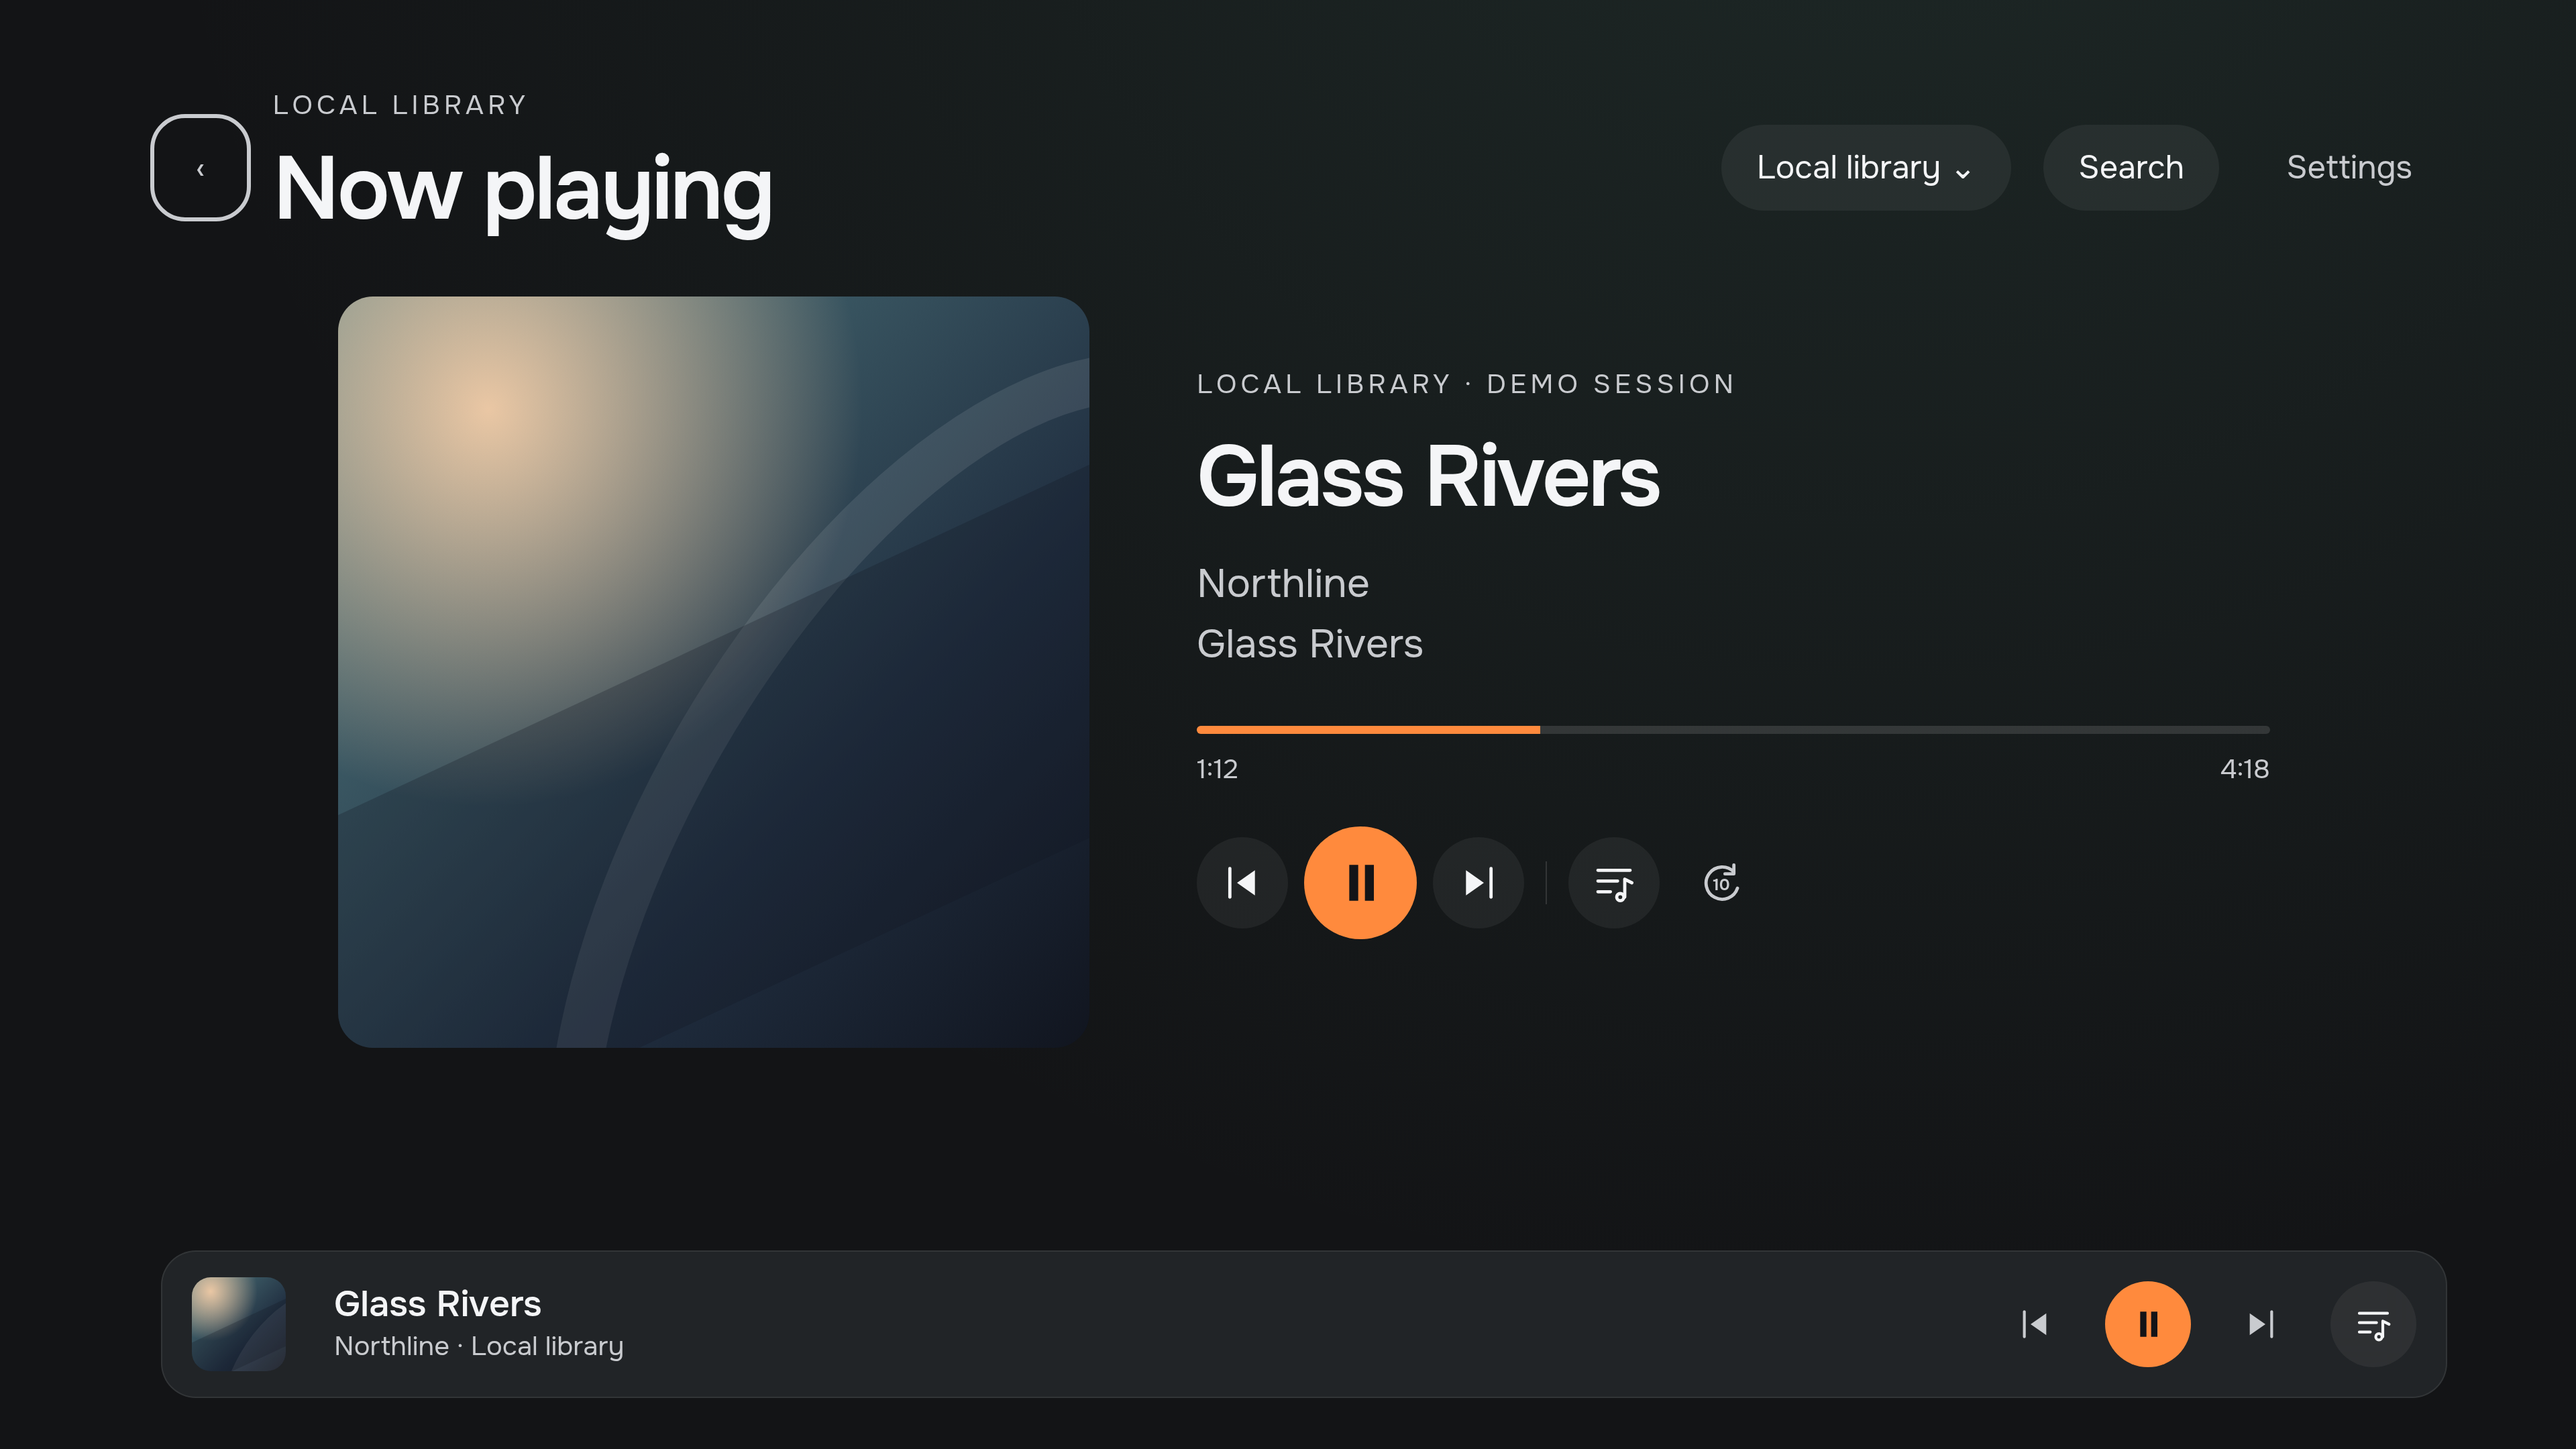
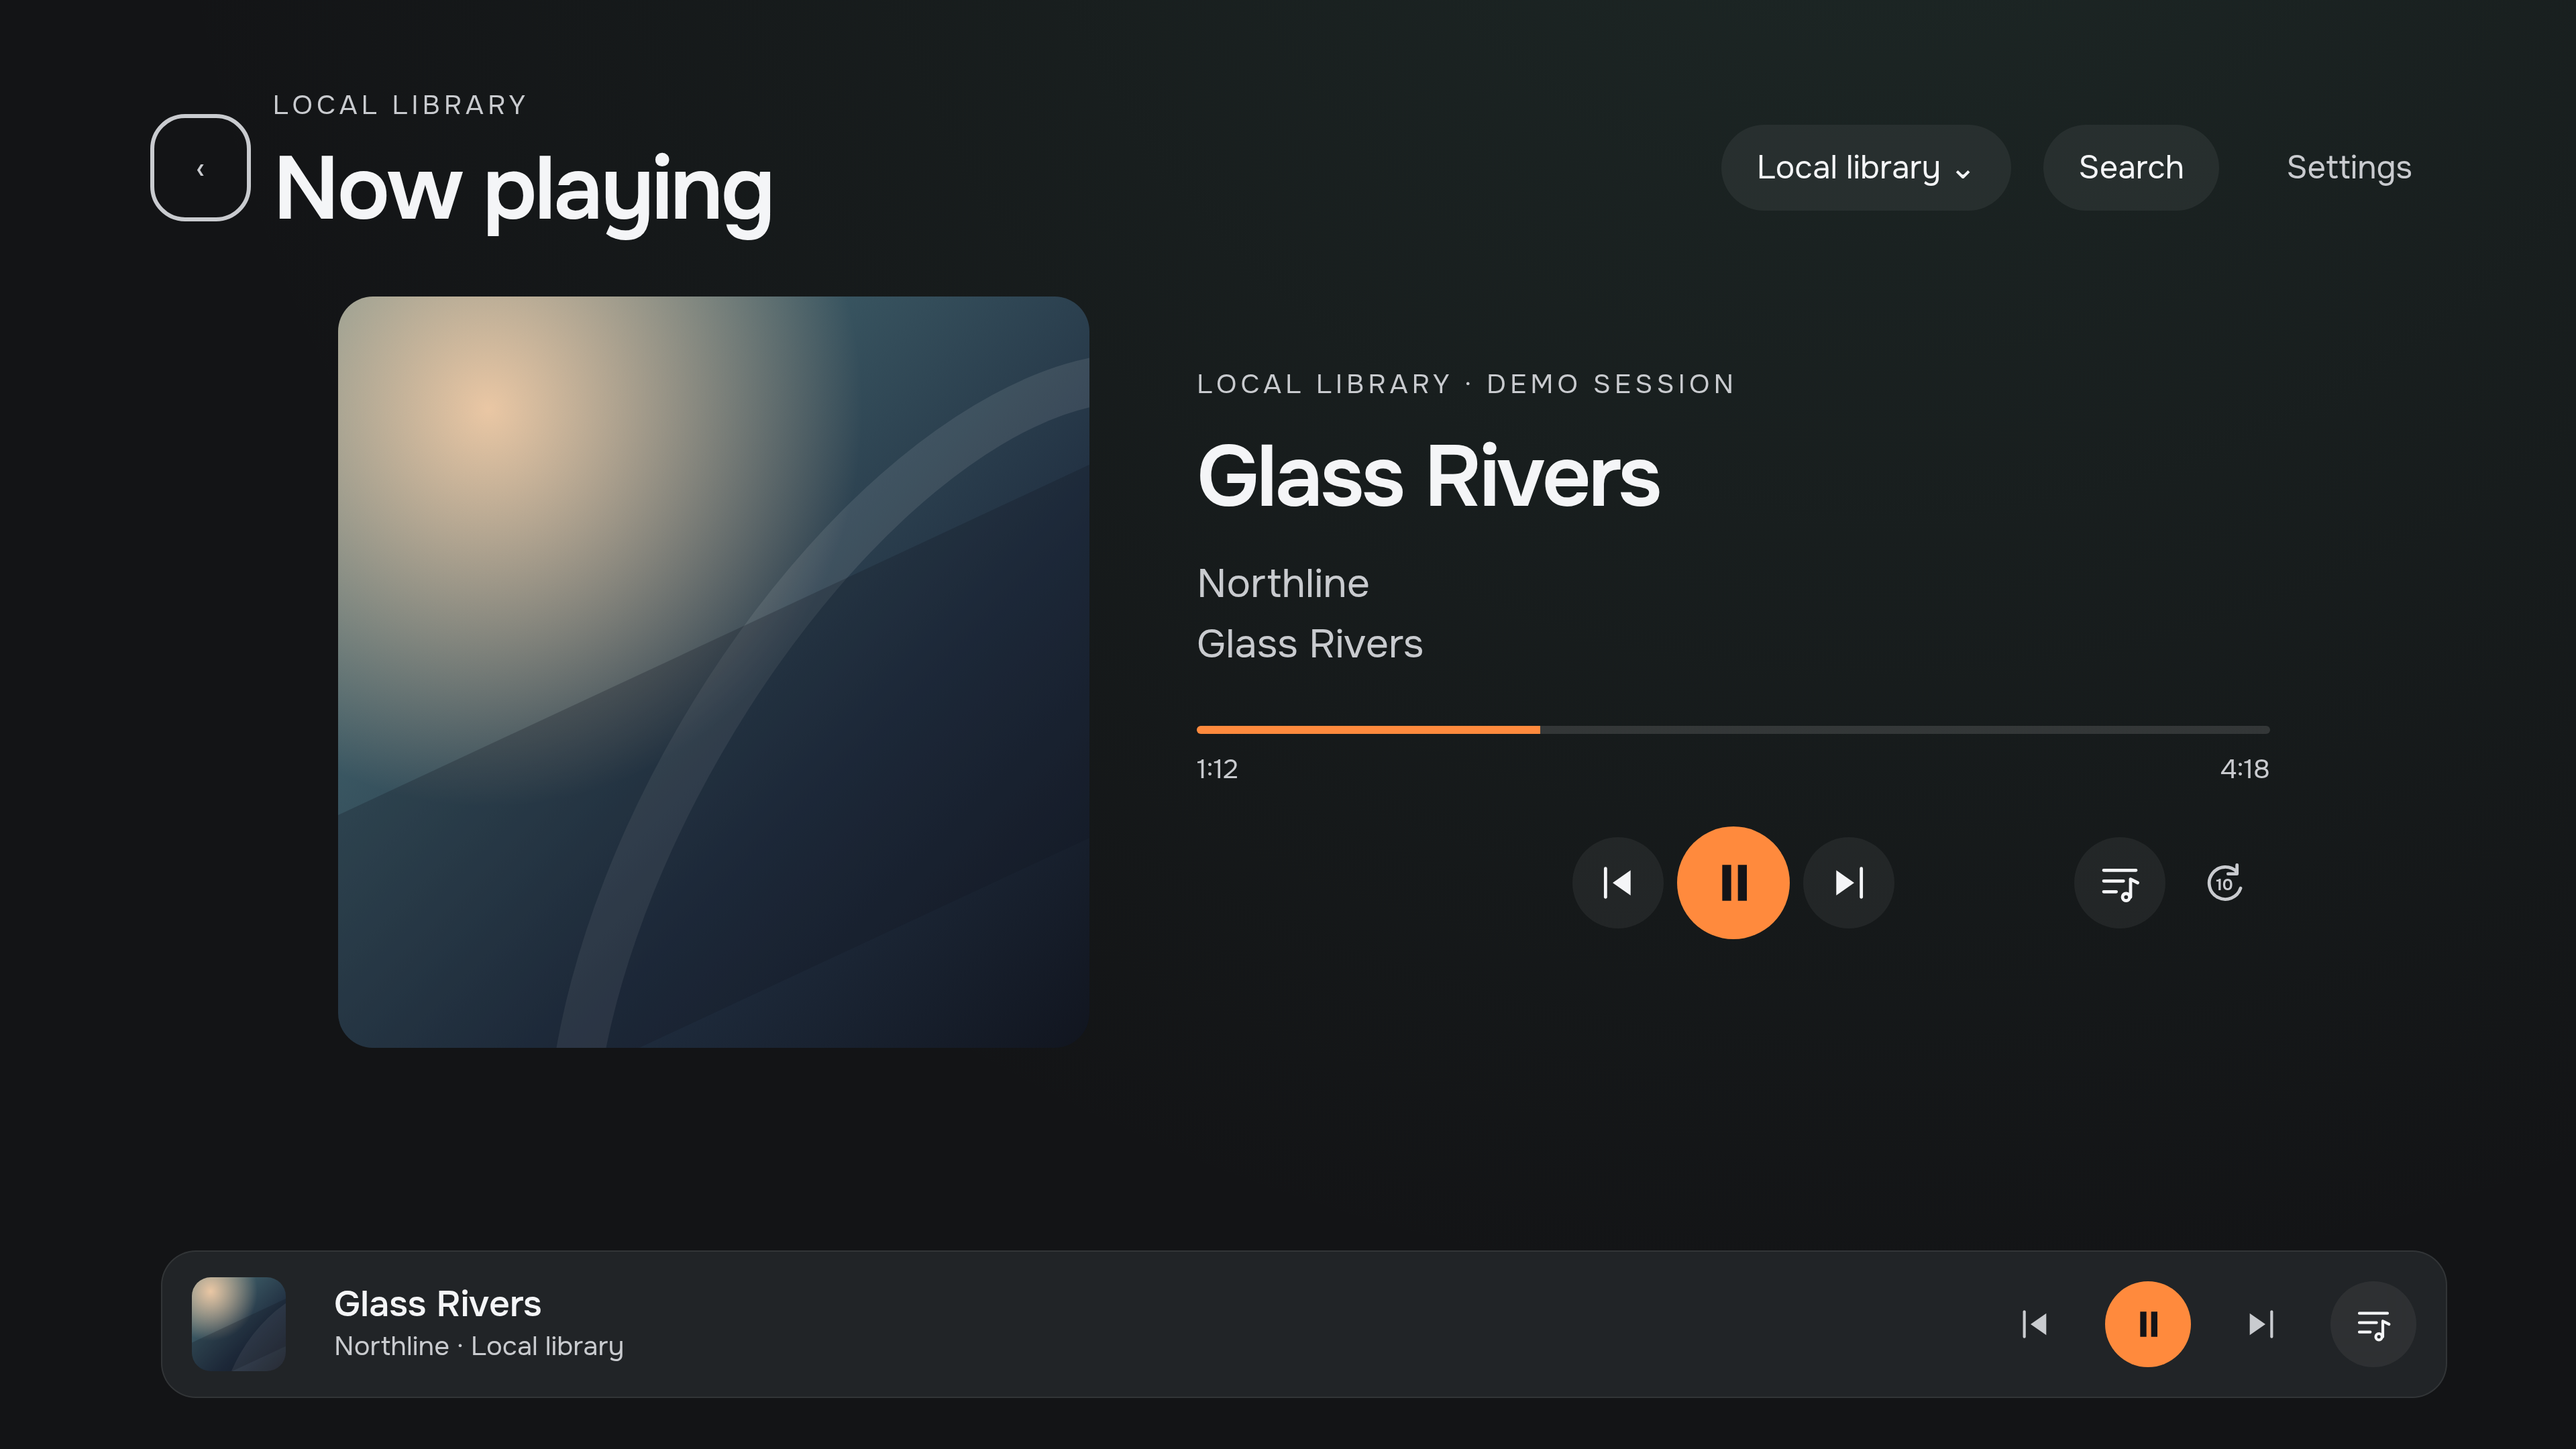
design: select balanced music player layout B
Refs #677 and #698. Record explicit owner choice and use centered transport with feedback left and secondary actions right by default. Keep A/C as comparison references and refresh default-player captures. All 44 offline browser scenes pass.

Changed region(s): [[0.4688, 0.5583, 0.5938, 0.6514], [0.625, 0.5583, 0.7188, 0.6514], [0.8125, 0.5894, 0.875, 0.6204]]

diff --git a/docs/design/prototypes/music/music.js b/docs/design/prototypes/music/music.js
@@ -120,7 +120,7 @@
     pending:['Connecting…','Complete connection in the approved service flow. This preview never opens an account.'],
     cancelled:['Connection cancelled','Nothing was connected. You can try again when you are ready.']
   };
-  let s = {screen:'catalogue',source:'local',tab:'Albums',album:0,query:'',scene:'catalogue'};
+  let s = {screen:'catalogue',source:'local',tab:'Albums',album:0,query:'',scene:'catalogue',variant:'balanced'};
   let session = null;
   let serial = 0;
   const queueFor = album => tracks.slice(0,6).map((_,track) => ({track,album,key:++serial}));
@@ -244,7 +244,7 @@
   function start(track) {if(s.source!=='local'){openModal('settings');return;}radio=null;session={source:s.source,album:s.album,track:Number(track),paused:false};queue=queueFor(s.album);selectEntry(queue[Number(track)]);modal=null;drawModal();drawPlayer();render(document.activeElement.id);}
   function play(track) {if(s.source!=='local'){openModal('settings');return;}if(session && (session.source!==s.source || session.album!==s.album)){openModal('replace',track);}else start(track);}
   function applyScene(scene) {
-    s={screen:'catalogue',source:'local',tab:'Albums',album:0,query:'',scene,designRadio:false};history=[];modal=null;session=null;radio=null;tracks.length=6;queue=queueFor(0);
+    s={screen:'catalogue',source:'local',tab:'Albums',album:0,query:'',scene,designRadio:false,variant:'balanced'};history=[];modal=null;session=null;radio=null;tracks.length=6;queue=queueFor(0);
     if(['player','queue','home'].includes(scene)){session={source:'local',album:0,track:1,paused:false};s.screen=scene;selectEntry(queue[1]);}
     if(scene.startsWith('controls-')) {
       s.source='yandex';s.designRadio=true;s.variant=scene.slice(9);beginStation('wave',true);history=[];s.screen='player';render('pause');return;

diff --git a/docs/design/prototypes/music/verify.py b/docs/design/prototypes/music/verify.py
@@ -111,6 +111,7 @@ def main():
             page.locator("#pin-wave").click()
             page.locator("#station-wave").click()
             assert "My Wave" in page.locator(".radio-label").inner_text()
+            assert page.locator(".now .layout-balanced").count() == 1, "Owner-selected layout B must be the default"
             assert "no service connected" in page.locator(".now .eyebrow").inner_text().lower()
             for control in ["previous", "pause", "next", "queue", "seek", "rating-like", "rating-dislike", "track-radio"]:
                 assert page.locator("#" + control + " svg").count() == 1

diff --git a/docs/design/prototypes/music/control-layouts.md b/docs/design/prototypes/music/control-layouts.md
@@ -3,8 +3,9 @@
 Owner-requested alternatives for [#677](https://github.com/LimeBeck/arinn/issues/677),
 design task [#698](https://github.com/LimeBeck/arinn/issues/698),
 [PR #700](https://github.com/LimeBeck/arinn/pull/700). Proposed on 2026-11-01.
-This is a design evaluation, not a user study, owner selection or a change to
-the production shell. All alternatives retain one horizontal primary-action row.
+This is a design evaluation, not a user study or a change to the production
+shell. The owner selected B on 2026-11-01. All alternatives retain one horizontal
+primary-action row.
 
 ## Comparable variants
 
@@ -18,7 +19,7 @@ navigation, feedback, queue and the overflow sheet remain interactive.
 ![Linear control row](screenshots/controls-inline-strip.png)
 
 Previous, Play/Pause, Next, Queue, Seek, Like, Dislike and Track radio are visible,
-with thin separators. This is the current prototype default.
+with thin separators. This is retained as a comparison scene.
 
 It is direct and familiar, with no hidden actions. However, Pause sits near the
 left edge and the row reads as a chain of eight actions. Feedback is far from
@@ -90,8 +91,8 @@ future reviewed scope prioritizes a minimal album player over immediate feedback
 A remains a valid conservative fallback. Do not expose three permanent layout
 settings merely because alternatives are available for review.
 
-No alternative is selected by this document. The default remains A until the
-owner reviews the screens. A production implementation would also choose a
+The owner selected **B**, which is now the prototype default. A and C remain
+review references rather than user settings. A production implementation would also choose a
 single active transport surface rather than duplicate full-player and compact
 transport; that existing prototype simplification is held constant here so it
 does not bias this comparison.

diff --git a/changes/added/music-design-prototype.md b/changes/added/music-design-prototype.md
@@ -1,1 +1,1 @@
-- Add an offline music design prototype with synthetic catalogue, search, player, queue, source selection and degraded states, plus 1080p/4K review captures. Include provider-owned personal selections, My Wave/track-radio scenes, pins, feedback and continuous queue loading/retry states, informed by CloudMus. Use accessible icon transport controls in a single player row and illustrate the Home Continue music card in playing/paused states. Compare linear, centered-group and minimal/overflow player layouts with 1080p/4K captures and remote-navigation evaluation. Production music integration remains unimplemented and visual acceptance is pending.
+- Add an offline music design prototype with synthetic catalogue, search, player, queue, source selection and degraded states, plus 1080p/4K review captures. Include provider-owned personal selections, My Wave/track-radio scenes, pins, feedback and continuous queue loading/retry states, informed by CloudMus. Use accessible icon transport controls in a single player row and illustrate the Home Continue music card in playing/paused states. Compare linear, centered-group and minimal/overflow layouts; use owner-selected balanced layout B by default. Production music integration remains unimplemented and full visual acceptance is pending.

diff --git a/docs/design/music-design-brief.md b/docs/design/music-design-brief.md
@@ -68,6 +68,11 @@ The owner requested several alternatives before selecting a final arrangement;
 the [control-layout comparison](prototypes/music/control-layouts.md) proposes a
 linear row, balanced groups with centered transport, and a minimal row with an
 overflow sheet. These are review alternatives, not three permanent user settings.
+The owner selected **B: balanced groups with centered transport** on 2026-11-01.
+Use feedback on the left, Previous/Play-Pause/Next centered in the information
+column, and Queue/Seek/Track radio on the right. The prototype now uses B by
+default; A and C remain comparison references. This visual decision does not
+qualify provider integrations or close the implementation tracker.
 
 The proposed Home music card belongs to the existing Continue row and follows its
 400×225 content-card geometry. Artwork, track and artist identify current music;

diff --git a/docs/design/prototypes/music/README.md b/docs/design/prototypes/music/README.md
@@ -124,7 +124,8 @@ flows remain design/contract questions. No mixed-source playback is promised.
 [Three player-control layouts and evaluation](control-layouts.md) compare the
 linear row, centered transport with balanced side groups, and a minimal row with
 More. The scenes are `controls-inline`, `controls-balanced` and
-`controls-minimal`. The current default remains the linear row pending selection.
+`controls-minimal`. The owner selected balanced groups (B) on 2026-11-01;
+this is now the default player layout. A and C remain comparison scenes only.
 
 | Screen | 1080p | 4K |
 | --- | --- | --- |

diff --git a/ROADMAP.md b/ROADMAP.md
@@ -287,6 +287,8 @@ and covers refill/loading/retry, exhausted-buffer and feedback failure states;
 see [MU-11–MU-15](docs/architecture/music-discovery.md#proposed-common-requirements).
 Recommendations remain provider-owned; this is not an Arinn recommendation engine
 or evidence of a qualified streaming integration.
+The owner selected player layout B (balanced groups with centered transport) on
+2026-11-01; it is the [prototype](docs/design/prototypes/music/README.md) default.
 
 ## Backlog
 
